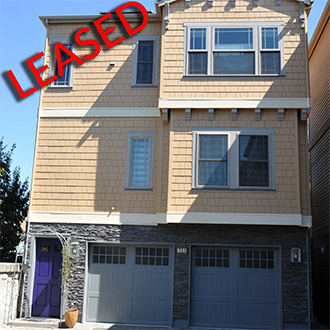
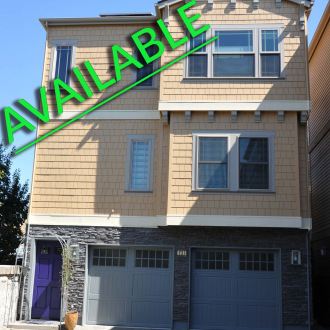
231

diff --git a/index.html b/index.html
@@ -590,7 +590,7 @@ _________________________________________________________ -->
 
                             <div class="col-sm-12 text-left" data-animate="fadeInUp">
 							<div style="text-align:center">
-                                <p style="text-align:center"><strong>One home will be available soon. <a class="scrollTo" href="#references">225 W Angela St. </a>Check back on our website for availability updates.</strong></p>
+                                <p style="text-align:center"><strong>Two homes are available. <a class="scrollTo" href="#references">225 W Angela St. and 231 Peters Ave. </a>Check back on our website for availability updates.</strong></p>
                                  
 								<p style="margin-bottom:40px"><strong><a href="mailto:info@angelarowhouses.com" target="_blank">Email us at info@angelarowhouses.com</a> or call <a href="tel:+1-925-400-7691">1-925-400-ROW1</a></strong></p>
 							</div>

diff --git a/231.html b/231.html
@@ -271,7 +271,7 @@ _________________________________________________________ -->
 
                             <div class="col-sm-12 text-left" data-animate="fadeInUp">
 							<div style="text-align:center">
-                                <p style="text-align:center"><strong>231 W Angela is not currently available</strong></p>
+                                <p style="text-align:center"><strong>231 W Angela is currently available</strong></p>
                                  
 								<p style="margin-bottom:40px"><strong><a href="mailto:info@angelarowhouses.com" target="_blank">Email us at info@angelarowhouses.com</a> or call <a href="tel:+1-925-400-7691">1-925-400-ROW1</a> for more information</strong></p>
 							</div>
